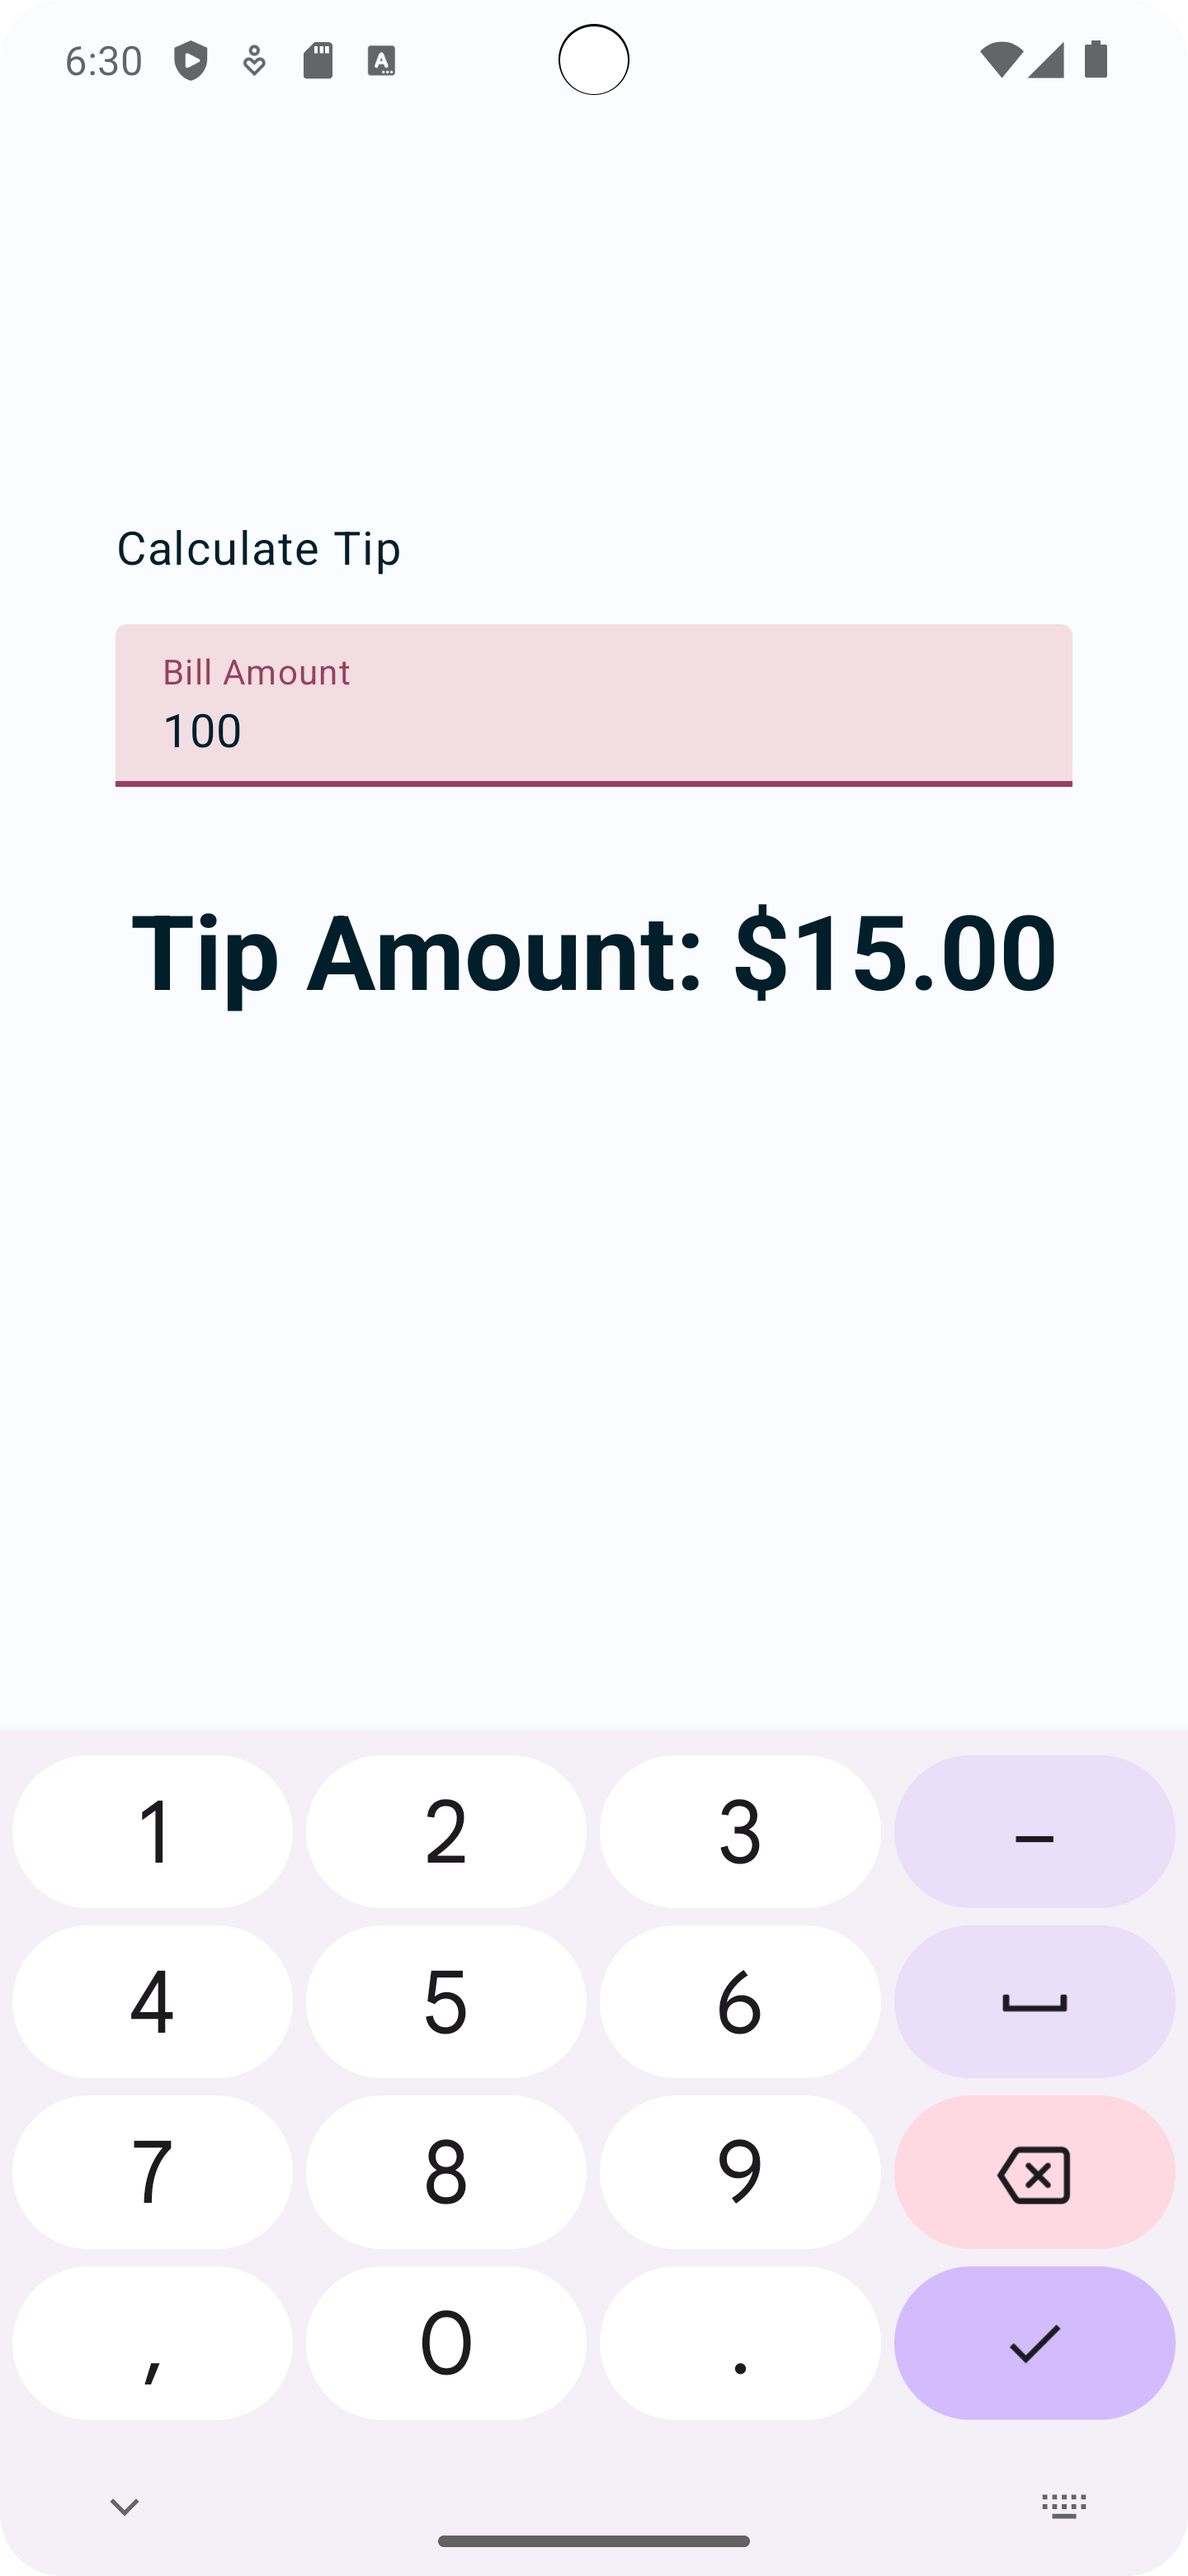
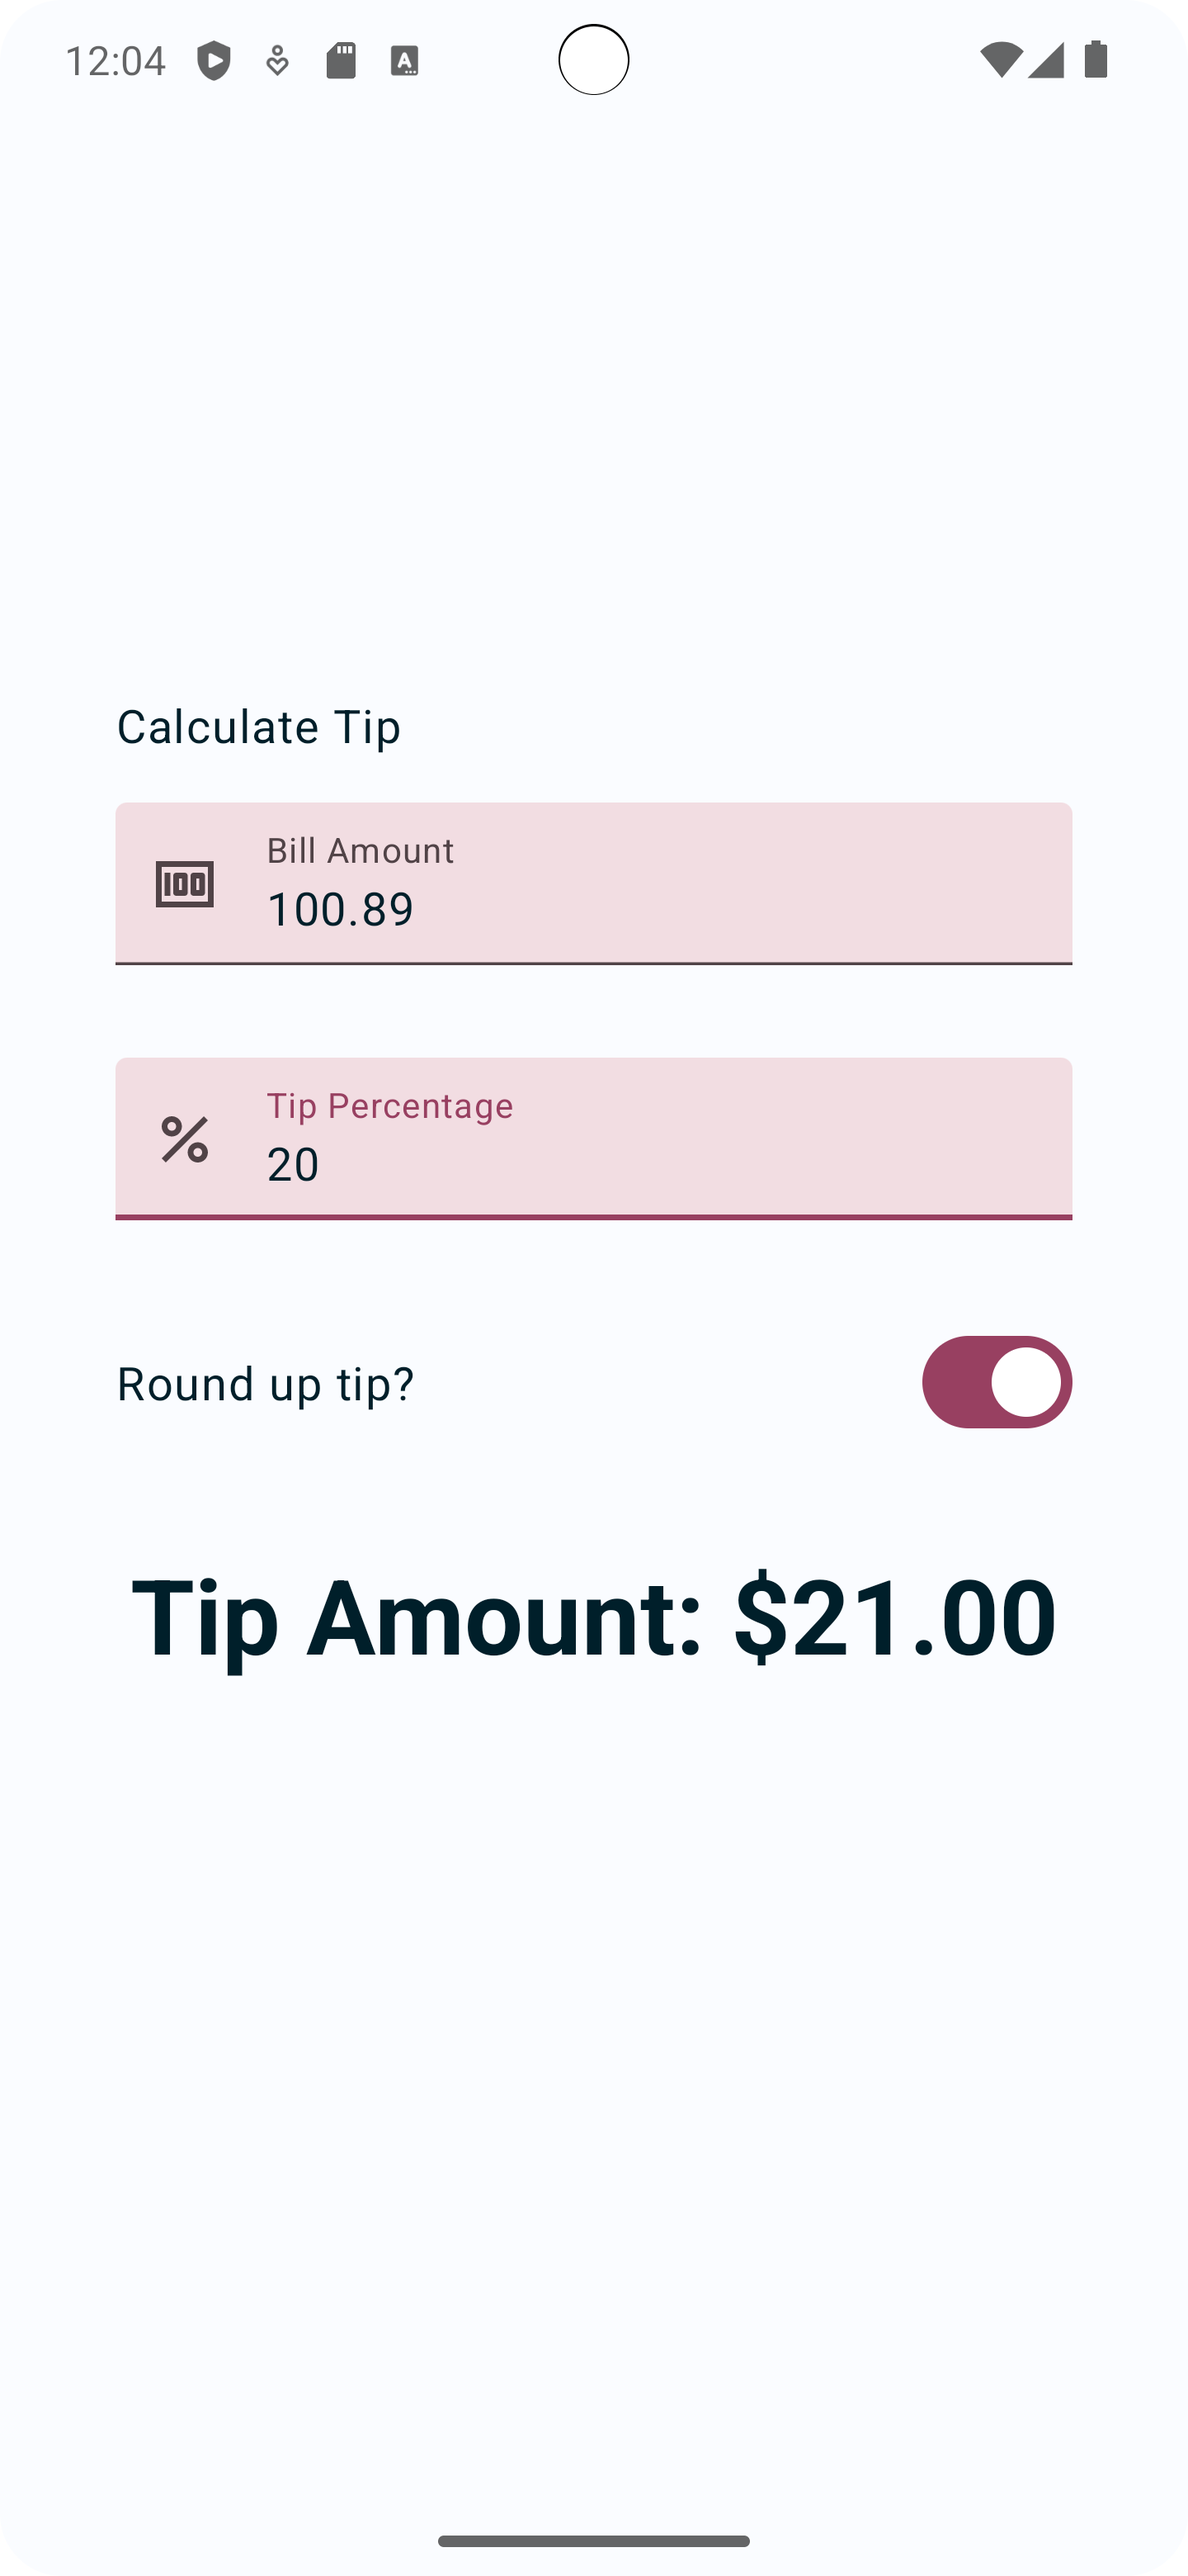
Add tip percentage and round up input

diff --git a/app/src/main/java/com/example/tiptime/MainActivity.kt b/app/src/main/java/com/example/tiptime/MainActivity.kt
@@ -19,29 +19,39 @@ import android.os.Bundle
 import androidx.activity.ComponentActivity
 import androidx.activity.compose.setContent
 import androidx.activity.enableEdgeToEdge
+import androidx.annotation.DrawableRes
+import androidx.annotation.StringRes
 import androidx.compose.foundation.layout.Arrangement
 import androidx.compose.foundation.layout.Column
+import androidx.compose.foundation.layout.Row
 import androidx.compose.foundation.layout.Spacer
 import androidx.compose.foundation.layout.fillMaxSize
 import androidx.compose.foundation.layout.fillMaxWidth
 import androidx.compose.foundation.layout.height
 import androidx.compose.foundation.layout.padding
 import androidx.compose.foundation.layout.safeDrawingPadding
+import androidx.compose.foundation.layout.size
 import androidx.compose.foundation.layout.statusBarsPadding
+import androidx.compose.foundation.layout.wrapContentWidth
+import androidx.compose.foundation.rememberScrollState
 import androidx.compose.foundation.text.KeyboardOptions
+import androidx.compose.foundation.verticalScroll
+import androidx.compose.material3.Icon
 import androidx.compose.material3.MaterialTheme
 import androidx.compose.material3.Surface
+import androidx.compose.material3.Switch
 import androidx.compose.material3.Text
 import androidx.compose.material3.TextField
 import androidx.compose.runtime.Composable
-import androidx.compose.runtime.MutableState
 import androidx.compose.runtime.getValue
 import androidx.compose.runtime.mutableStateOf
 import androidx.compose.runtime.remember
 import androidx.compose.runtime.setValue
 import androidx.compose.ui.Alignment
 import androidx.compose.ui.Modifier
+import androidx.compose.ui.res.painterResource
 import androidx.compose.ui.res.stringResource
+import androidx.compose.ui.text.input.ImeAction
 import androidx.compose.ui.text.input.KeyboardType
 import androidx.compose.ui.tooling.preview.Preview
 import androidx.compose.ui.unit.dp
@@ -67,14 +77,19 @@ class MainActivity : ComponentActivity() {
 @Composable
 fun TipTimeLayout() {
     var amountInput by remember { mutableStateOf("") }
+    var tipInput by remember { mutableStateOf("") }
+    var roundUp by remember { mutableStateOf(false) }
+
     val amount = amountInput.toDoubleOrNull() ?: 0.0
-    val tip = calculateTip(amount)
+    val tipPercent = tipInput.toDoubleOrNull() ?: 0.0
+
+    val tip = calculateTip(amount, tipPercent, roundUp)
 
     Column(
         modifier = Modifier
             .statusBarsPadding()
             .padding(horizontal = 40.dp)
-            .safeDrawingPadding(),
+            .verticalScroll(rememberScrollState()),
         horizontalAlignment = Alignment.CenterHorizontally,
         verticalArrangement = Arrangement.Center
     ) {
@@ -85,11 +100,36 @@ fun TipTimeLayout() {
                 .align(alignment = Alignment.Start)
         )
         EditNumberField(
+            label = R.string.bill_amount,
+            leadingIcon = R.drawable.money,
+            keyboardOptions = KeyboardOptions.Default.copy(
+                keyboardType = KeyboardType.Number,
+                imeAction = ImeAction.Next
+            ),
             value = amountInput,
             onValueChange = { amountInput = it },
             modifier = Modifier
                 .padding(bottom = 32.dp)
-                .fillMaxWidth())
+                .fillMaxWidth()
+        )
+        EditNumberField(
+            label = R.string.how_was_the_service,
+            leadingIcon = R.drawable.percent,
+            keyboardOptions = KeyboardOptions.Default.copy(
+                keyboardType = KeyboardType.Number,
+                imeAction = ImeAction.Done
+            ),
+            value = tipInput,
+            onValueChange = { tipInput = it },
+            modifier = Modifier
+                .padding(bottom = 32.dp)
+                .fillMaxWidth()
+        )
+        RoundTheTipRow(
+            roundUp = roundUp,
+            onRoundUpChanged = { roundUp = it },
+            modifier = Modifier.padding(bottom = 32.dp)
+        )
         Text(
             text = stringResource(R.string.tip_amount, tip),
             style = MaterialTheme.typography.displaySmall
@@ -99,17 +139,44 @@ fun TipTimeLayout() {
 }
 
 @Composable
+fun RoundTheTipRow(
+    roundUp: Boolean,
+    onRoundUpChanged: (Boolean) -> Unit,
+    modifier: Modifier = Modifier
+) {
+    Row(
+        verticalAlignment = Alignment.CenterVertically,
+        modifier = modifier
+            .fillMaxWidth()
+            .size(48.dp)
+    ) {
+        Text(text = stringResource(id = R.string.round_up_tip))
+        Switch(
+            checked = roundUp,
+            onCheckedChange = onRoundUpChanged,
+            modifier = Modifier
+                .fillMaxWidth()
+                .wrapContentWidth(Alignment.End),
+        )
+    }
+}
+
+@Composable
 fun EditNumberField(
+    @StringRes label: Int,
+    @DrawableRes leadingIcon: Int,
+    keyboardOptions: KeyboardOptions,
     value: String,
     onValueChange: (String) -> Unit,
     modifier: Modifier = Modifier
 ) {
     TextField(
         value = value,
+        leadingIcon = { Icon(painter = painterResource(id = leadingIcon), contentDescription = null) },
         onValueChange = onValueChange,
-        label = { Text(text = stringResource(id = R.string.bill_amount)) },
+        label = { Text(text = stringResource(id = label)) },
         singleLine = true,
-        keyboardOptions = KeyboardOptions(keyboardType = KeyboardType.Number),
+        keyboardOptions = keyboardOptions,
         modifier = modifier
     )
 }
@@ -119,8 +186,15 @@ fun EditNumberField(
  * according to the local currency.
  * Example would be "$10.00".
  */
-private fun calculateTip(amount: Double, tipPercent: Double = 15.0): String {
-    val tip = tipPercent / 100 * amount
+private fun calculateTip(
+    amount: Double,
+    tipPercent: Double = 15.0,
+    roundUp: Boolean
+): String {
+    var tip = tipPercent / 100 * amount
+    if (roundUp) {
+        tip = kotlin.math.ceil(tip)
+    }
     return NumberFormat.getCurrencyInstance().format(tip)
 }
 
